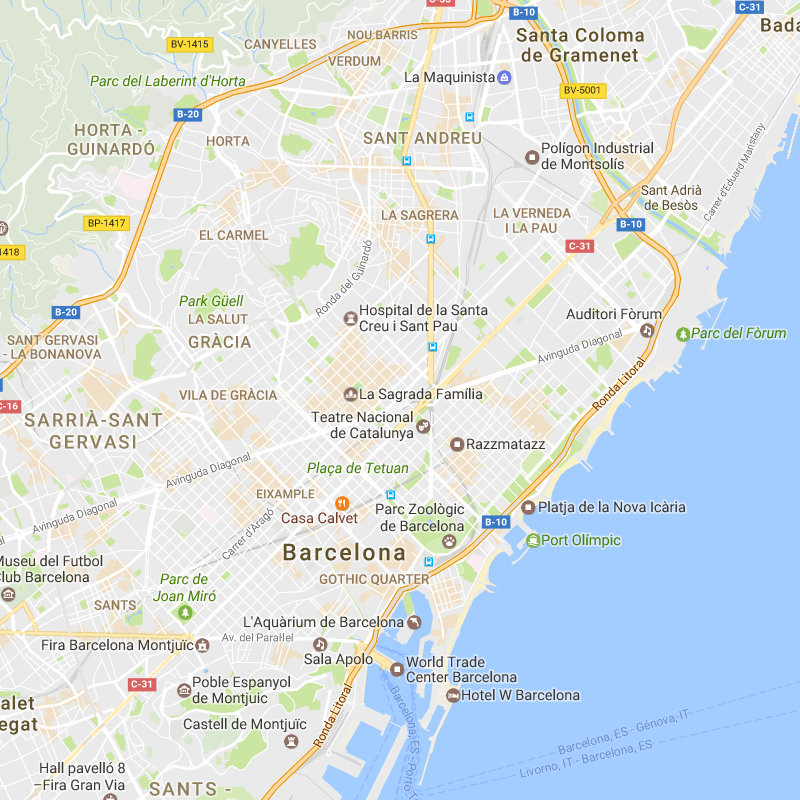
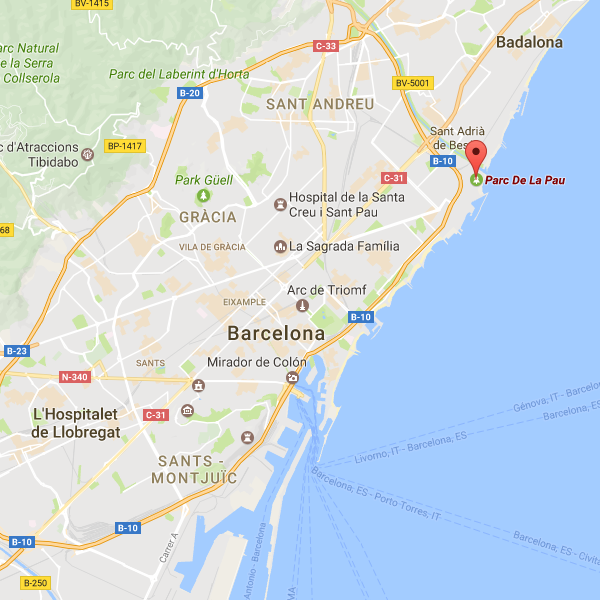
Add files via upload

diff --git a/Assignment2/index.html b/Assignment2/index.html
@@ -13,7 +13,7 @@
             <div class="slideshow">
                 <div class="slideshow_content">
                     <h1><img src="img/Logo/Logo_White.png" alt="De La Pau"></h1>
-                    <h3>MARCH 9-10 2017 Barselona</h3>
+                    <h3>MARCH 9-10 2017 Barcelona</h3>
                     <script src="../p5.min.js"></script>
                     <script src="sketch.js" ></script> <!-- countdown timer -->
                 </div>
@@ -28,24 +28,24 @@
                 <span></span>
             </button>
               <li class="dropdown">
-                <a href="javascript:void(0)" class="dropbtn">LINE UP</a>
+                <a href="#lineup" class="dropbtn">LINE UP</a>
                 <div class="dropdown-content">
-                  <a href="#">MARCH 9</a>
-                  <a href="#">MARCH 10</a>
+                  <a href="#lineup">MARCH 9</a>
+                  <a href="#lineup">MARCH 10</a>
                 </div>
               </li>
               <li class="dropdown">
-                <a href="javascript:void(0)" class="dropbtn">PASSES</a>
+                <a href="#passes" class="dropbtn">PASSES</a>
                 <div class="dropdown-content">
-                  <a href="#">G.A.</a>
-                  <a href="#">V.I.P.</a>
+                  <a href="#passes">G.A.</a>
+                  <a href="#passes">V.I.P.</a>
                 </div>
               </li>
               <li class="dropdown">
-                <a href="javascript:void(0)" class="dropbtn">TRAVEL</a>
+                <a href="#travel" class="dropbtn">TRAVEL</a>
                 <div class="dropdown-content">
-                  <a href="#">GETTING HERE</a>
-                  <a href="#">WHERE TO STAY</a>
+                  <a href="#travel">GETTING HERE</a>
+                  <a href="#travel">WHERE TO STAY</a>
                 </div>
               </li>
               <li class="dropdown">
@@ -60,12 +60,12 @@
         
         <div class="container">
             <div class="lineup">
-                <div class="lineup_child">
+                <div class="lineup_child" id="lineup" >
                     <h1>MARCH 9 - THURSDAY</h1>
-                    <img src="img/artist_photo/6lack.jpg" alt="artist_photo_1">
-                    <img src="img/artist_photo/Abi-ocia.jpg" alt="artist_photo_2">
-                    <img src="img/artist_photo/Avelino2.jpg" alt="artist_photo_3">
-                    <aside class="other_artists">
+                    <img src="img/artist_photo/6lack.jpg" alt="artist_photo_1" class="pc">
+                    <img src="img/artist_photo/Abi-ocia.jpg" alt="artist_photo_2" class="pc">
+                    <img src="img/artist_photo/Avelino2.jpg" alt="artist_photo_3" class="pc">
+                    <aside class="other_artists" class="pc">
                         <ul>
                             <li>FRANK OCEAN</li>
                             <li>SADE</li>
@@ -87,10 +87,10 @@
                 </div>
                 <div class="lineup_child2">
                     <h1>MARCH 10 - WEDNESDAY</h1>
-                    <img src="img/artist_photo/Banks2.jpg" alt="artist_photo_4">
-                    <img src="img/artist_photo/Justice.jpg" alt="artist_photo_5">
-                    <img src="img/artist_photo/Lancey-foux.jpg" alt="artist_photo_6">
-                    <aside class="other_artists">
+                    <img src="img/artist_photo/Banks2.jpg" alt="artist_photo_4" class="pc">
+                    <img src="img/artist_photo/Justice.jpg" alt="artist_photo_5" class="pc">
+                    <img src="img/artist_photo/Lancey-foux.jpg" alt="artist_photo_6" class="pc">
+                    <aside class="other_artists" class="pc">
                         <ul>
                             <li>BLINK 182</li>
                             <li>STORMZY</li>
@@ -111,7 +111,7 @@
                     </aside>
                 </div>
             </div>
-            <div class="passes_container">
+            <div class="passes_container" id="passes">
                 <div class="passes">
                     <h1>PASSES</h1>
                     <div class="passes_child">
@@ -148,17 +148,34 @@
                     </div>
                 </div>
             </div>
-            <div class="travel">
-                <!-- https://developers.google.com/maps/documentation/embed/guide -->
+            <div class="travel" id="travel">
+                <div class="travel_child">
+                    <h1>TRAVEL</h1>
+                    <img src="img/Map.png" alt="map" class="map_img">
+                    <div class="travel_grandchild">
+                        <p>
+                            <img src="img/airplain_logo.png" alt="map" height="50px" class="travel_logo">
+                            30 minute on train from International Barcelona Airport
+                        </p>
+                        <p>
+                            <img src="img/car_logo.png" alt="map" height="50px" class="travel_logo">
+                            20 minute drive from Barcelona city center
+                        </p>
+                        <p>
+                            <img src="img/walking_logo.png" alt="map" height="50px" class="travel_logo">
+                            15 minute walk from Sant Andria de Besos station
+                        </p>
+                    </div>
+                </div>
             </div>
         </div>
         <footer>
             <P>CONTACT | POLICY | SPONSORS | ADVERTISING | CAREERS</P>
             <ul>
-                <li><a href=""><img src="img/twitter_icon.png" alt="twitter"></a></li>
-                <li><a href=""><img src="img/facebook_icon.png" alt="twitter"></a></li>
-                <li><a href=""><img src="img/instagram_icon.png" alt="twitter"></a></li>
-                <li><a href=""><img src="img/youtube_icon.png" alt="twitter"></a></li>
+                <li><a href="#"><img src="img/twitter_icon.png" alt="twitter"></a></li>
+                <li><a href="#"><img src="img/facebook_icon.png" alt="twitter"></a></li>
+                <li><a href="#"><img src="img/instagram_icon.png" alt="twitter"></a></li>
+                <li><a href="#"><img src="img/youtube_icon.png" alt="twitter"></a></li>
             </ul>
         </footer>
     </div>

diff --git a/Assignment2/style.css b/Assignment2/style.css
@@ -16,7 +16,7 @@
 }
 
 .slideshow img {
-    max-width: 500px;
+    max-width: 380px;
     width: 80%;
     margin-top: 50px
 }
@@ -129,7 +129,7 @@ nav li.dropdown {
 .lineup_child2 {
     float: left;
     width: 50%;
-    background-image: url(img/Pass_bg_blur.jpg) ;
+    background-image: url(img/pass_bg_blur.jpg) ;
     background-size: cover;
     background-position: center center;
     padding-bottom: 1em;
@@ -193,11 +193,100 @@ footer ul {
     margin-right: 50px;
 }
 
+.passes {
+    padding: 1em;
+    background-image: url(img/Pass_bg_blur.jpg);
+    background-size: cover;
+    background-position: center center;
+    color: black;
+}
+
+.passes h1 {
+    padding: 0.5em;
+    margin-top: 
+}
+
+.passes img {
+    max-width: 90%;
+}
+
+.passes_child {
+    margin: 1em auto;
+    padding: 1em;
+    background-color: white;
+    color: black;
+    border-radius: 5px;
+    width: 33%;
+}
+
+.passes_child li{
+    list-style: none;
+}
+
+.passes_child img {
+    display: inline-block;
+}
+
+.travel {
+    background-image: url(img/Line_up_bg_blur.jpg);
+    background-size: cover;
+    background-position: center center;
+    color: white;
+}
+
+.map_img {
+    max-width: 80%
+}
+
+.travel_child {
+    width: 80%;
+    margin: 0 auto;
+    text-align: center;
+}
+
+.travel_child h1 {
+    padding: 1em;
+}
+
+.travel_child p {
+    text-align: center;
+    font-size: 150%;
+    padding: 0.5em;
+}
+
+.travel_logo {
+    margin-right: 1em;
+}
+
+.travel_grandchild {
+    padding: 2em;
+}
+
+.travel_grandchild img {
+    margin: 0 auto;
+    display: block;
+}
+
+footer {
+}
+
+.pc {
+        display: none;
+    }
 
 
-
-
-
+@media (min-width:768px){
+    
+.pc {
+    display: inline;
+}
+    
+.travel_grandchild img {
+    margin: 0;
+    display: inline;
+}
+    
+}
 
 
 
